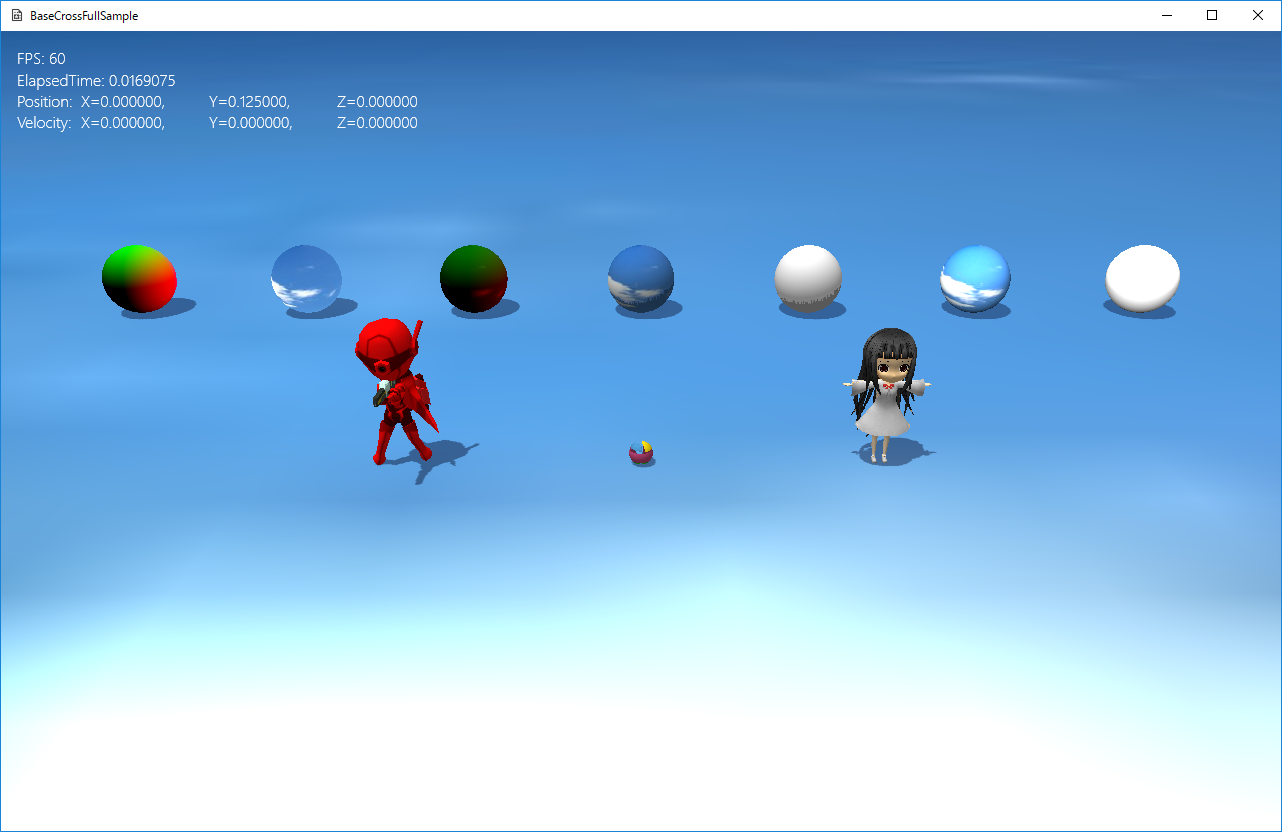
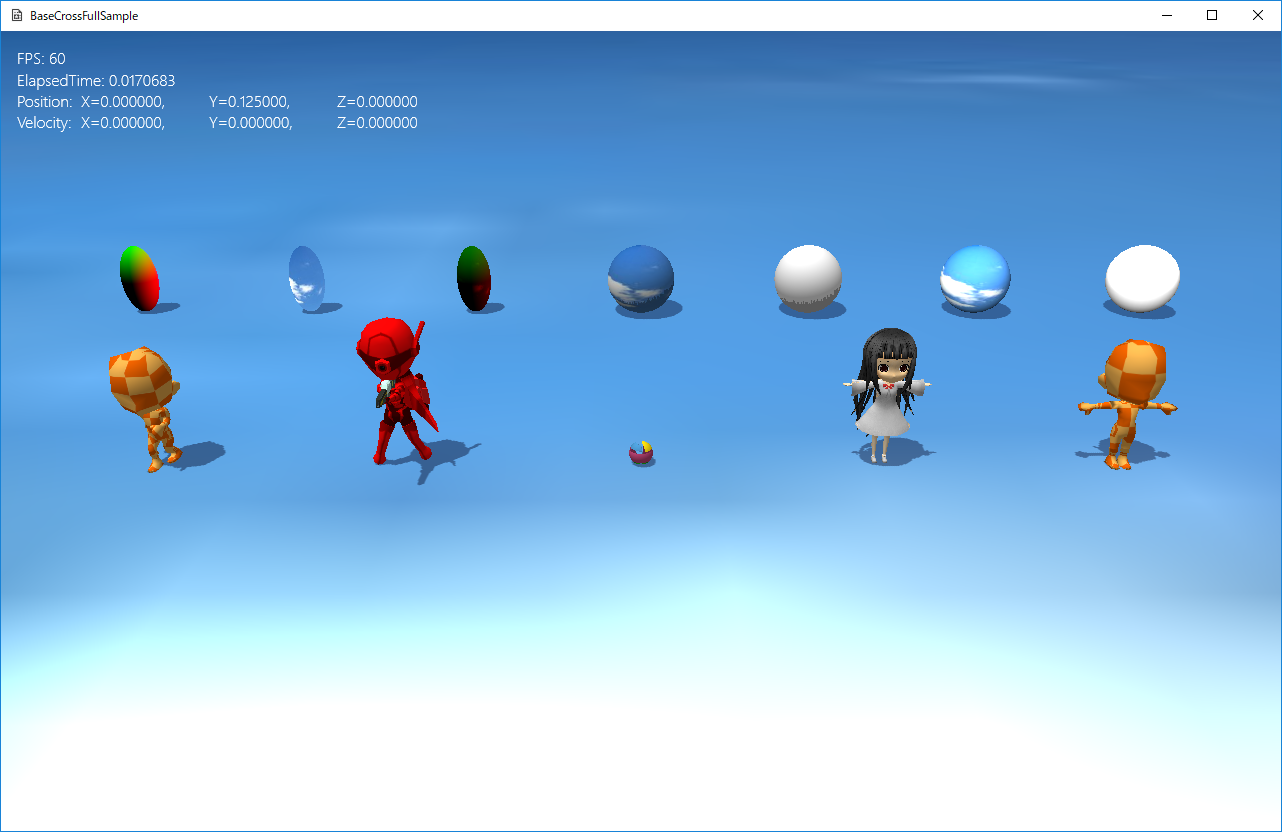
マルチメッシュのモデル対応に伴うドキュメント修正。

diff --git a/BaseCrossDoc/04_03.html b/BaseCrossDoc/04_03.html
@@ -267,10 +267,18 @@ void Scene::CreateResourses() {
     auto StaticModelMesh = MeshResource::CreateStaticModelMesh(DataDir, L"Character_01.bmf");
     App::GetApp()->RegisterResource(L"MODEL_MESH", StaticModelMesh);
 
+    //スタティックモデル(マルチメッシュ)の通常リソース
+    auto StaticMultiModelMesh = MultiMeshResource::CreateStaticModelMultiMesh(DataDir, L"ObjectOnly.bmf");
+    App::GetApp()->RegisterResource(L"ObjectOnly_MESH", StaticMultiModelMesh);
+    //ボーンモデル(マルチメッシュ)の通常リソース
+    auto MultiModelMesh = MultiMeshResource::CreateBoneModelMultiMesh(DataDir, L"Object_WalkAnimation.bmf");
+    App::GetApp()->RegisterResource(L"Object_WalkAnimation_MESH", MultiModelMesh);
 }
 </pre>
 </div>
-　このようにして<b>リソース登録</b>した<b>L"Chara_R_MESH"</b>を使用します。以下は<b>BoneChara::OnCreate()関数</b>です。
+　このようにして<b>リソース登録</b>した<b>L"Chara_R_MESH"</b>を使用します。<br />
+　また、ここで<b>マルチメッシュ</b>として作成されるモデルの実装も行ってます。<b>L"ObjectOnly_MESH"</b>と<b>L"Object_WalkAnimation_MESH"</b>です。この二つのモデルは<b>1つのFBXファイルに複数のメッシュがある場合</b>のモデルをデータ変換したものです。BaseCrossでは<b>マルチメッシュ</b>と称しています。<br />
+　以下は<b>BoneChara::OnCreate()関数</b>です。<br/>
 <div class="box1">
 <pre>
 //初期化
@@ -324,6 +332,59 @@ void BoneChara::OnUpdate() {
 }
 </pre>
 </div>
+　以下は<b>マルチメッシュ</b>である<b>BoneMultiMeshChara</b>の<b>BoneMultiMeshChara::OnCreate()</b>です。
+<div class="box1">
+<pre>
+//初期化
+void BoneMultiMeshChara::OnCreate() {
+    //初期位置などの設定
+    auto Ptr = AddComponent&lt;Transform>();
+    Ptr->SetScale(0.5f, 0.5f, 0.5f);
+    Ptr->SetRotation(0.0f, 0.0f, 0.0f);
+    Ptr->SetPosition(m_StartPos);
+
+    Mat4x4 SpanMat; // モデルとトランスフォームの間の差分行列
+    SpanMat.affineTransformation(
+        Vec3(1.0f, 1.0f, 1.0f),
+        Vec3(0.0f, 0.0f, 0.0f),
+        Vec3(0.0f, 0.0f, 0.0f),
+        Vec3(0.0f, 0.0f, 0.0f)
+    );
+
+    //影をつける（シャドウマップを描画する）
+    auto ShadowPtr = AddComponent&lt;Shadowmap>();
+
+    //影の形（メッシュ）を設定
+    <span class="red">ShadowPtr->SetMultiMeshResource(L"Object_WalkAnimation_MESH");</span>
+    ShadowPtr->SetMeshToTransformMatrix(SpanMat);
+
+    //描画コンポーネントの設定
+    auto PtrDraw = AddComponent&lt;PNTBoneModelDraw>();
+    //描画するメッシュを設定
+    <span class="red">PtrDraw->SetMultiMeshResource(L"Object_WalkAnimation_MESH");</span>
+    PtrDraw->SetSamplerState(SamplerState::LinearWrap);
+    PtrDraw->SetMeshToTransformMatrix(SpanMat);
+
+    PtrDraw->AddAnimation(L"Default", 0, 30, true, 10.0f);
+    PtrDraw->ChangeCurrentAnimation(L"Default");
+
+}
+</pre>
+</div>
+　赤くなっているところに注意してください。<b>SetMultiMeshResource()関数</b>で、<b>マルチメッシュ</b>を各コンポーネントに設定しています。<br />
+　もう一つ注意してほしいのは、<b>単体のメッシュ</b>と<b>マルチメッシュ</b>は一つのコンポーネントに同居できないということです。<br />
+　以下は、<b>OnUpdate()</b>です。
+<div class="box1">
+<pre>
+//更新
+void BoneMultiMeshChara::OnUpdate() {
+    auto PtrDraw = GetComponent&lt;PNTBoneModelDraw>();
+    float ElapsedTime = App::GetApp()->GetElapsedTime();
+    PtrDraw->UpdateAnimation(ElapsedTime);
+}
+</pre>
+</div>
+　こちらは単体のメッシュと変わりありません。<br />
 <br />
 <h4>スタティックモデル</h4>
 　以下は<b>スタティックモデル</b>の作成です。<b>StaticChara::OnCreate()関数</b>に記述します。
@@ -359,6 +420,38 @@ void StaticChara::OnCreate() {
 }
 </pre>
 </div>
+　こちらも<b>ボーンモデル</b>同様<b>マルチメッシュ</b>のオブジェクトがあります。<b>StaticMultiMeshChara</b>です。以下が<b>StaticMultiMeshChara::OnCreate()</b>です。
+<div class="box1">
+<pre>
+//初期化
+void StaticMultiMeshChara::OnCreate() {
+    //初期位置などの設定
+    auto Ptr = AddComponent&lt;Transform>();
+    Ptr->SetScale(0.5f, 0.5f, 0.5f);
+    Ptr->SetRotation(0.0f, 0.0f, 0.0f);
+    Ptr->SetPosition(m_StartPos);
+
+    Mat4x4 SpanMat; // モデルとトランスフォームの間の差分行列
+    SpanMat.affineTransformation(
+        Vec3(1.0f, 1.0f, 1.0f),
+        Vec3(0.0f, 0.0f, 0.0f),
+        Vec3(0.0f, 0.0f, 0.0f),
+        Vec3(0.0f, 0.0f, 0.0f)
+    );
+
+    //影をつける（シャドウマップを描画する）
+    auto ShadowPtr = AddComponent&lt;Shadowmap>();
+    //影の形（メッシュ）を設定
+    <span class="red">ShadowPtr->SetMultiMeshResource(L"ObjectOnly_MESH");</span>
+    ShadowPtr->SetMeshToTransformMatrix(SpanMat);
+
+    auto PtrDraw = AddComponent&lt;PNTStaticModelDraw>();
+    <span class="red">PtrDraw->SetMultiMeshResource(L"ObjectOnly_MESH");</span>
+    PtrDraw->SetMeshToTransformMatrix(SpanMat);
+}
+</pre>
+</div>
+　こちらも、赤くなっているところは<b>マルチメッシュ</b>を登録しているところです。<br/>
 <br />
 <h4>GameStageへの配置</h4>
 　以上が各オブジェクトの初期化や更新です。最後に<b>GameStage::OnCreate()</b>で各オブジェクトを<b>AddGameObject</b>します。

diff --git a/BaseCrossDoc/04_04.html b/BaseCrossDoc/04_04.html
@@ -46,7 +46,7 @@ void PtSphere::OnCreate() {
 <p>図0404b</p>
 <br/>
 <h4>モデルの描画</h4>
-　モデルをリアルな描画にしたのが手前の4体です。左２つはアニメーションが入ってます。<br />
+　モデルをリアルな描画にしたのが手前の8体です。左４つはアニメーションが入ってます。<br />
 　以下はボーンモデルの描画ですが<b>タンジェントがついているものとついてないもの</b>の違いを確認してください。
 <p>&nbsp;</p>
 <img src="img/0404c.png" width="80%"/>
@@ -116,34 +116,58 @@ void BoneChara::OnCreate() {
 <div class="box1">
 <pre>
 void Scene::CreateResourses() {
-    //中略
+//中略
 
     //ボーンモデルの通常リソース
     auto ModelMesh = MeshResource::CreateBoneModelMesh(DataDir, L"Chara_R.bmf");
     App::GetApp()->RegisterResource(L"Chara_R_MESH", ModelMesh);
+
     //ボーンモデルのタンジェント付きリソース
-    <span class="red">ModelMesh = MeshResource::CreateBoneModelMeshWithTangent(DataDir, L"Chara_R.bmf");</span>
+    ModelMesh = MeshResource::CreateBoneModelMeshWithTangent(DataDir, L"Chara_R.bmf");
     App::GetApp()->RegisterResource(L"Chara_R_MESH_WITH_TAN", ModelMesh);
     //法線マップ
     strTexture = DataDir + L"Chara_R_narmal.png";
     App::GetApp()->RegisterTexture(L"Chara_R_NORMAL_TX", strTexture);
 
+    //ボーンモデル(マルチメッシュ)の通常リソース
+    auto MultiModelMesh 
+    = MultiMeshResource::CreateBoneModelMultiMesh(DataDir, L"Object_WalkAnimation.bmf");
+    App::GetApp()->RegisterResource(L"Object_WalkAnimation_MESH", MultiModelMesh);
+
+    //ボーンモデル(マルチメッシュ)のタンジェント付きリソース
+    MultiModelMesh 
+    = MultiMeshResource::CreateBoneModelMultiMeshWithTangent(DataDir, L"Object_WalkAnimation.bmf");
+    App::GetApp()->RegisterResource(L"Object_WalkAnimation_MESH_WITH_TAN", MultiModelMesh);
+
+    //法線マップ
+    strTexture = DataDir + L"Tx_Checker_Normal.png";
+    App::GetApp()->RegisterTexture(L"OBJECT_NORMAL_TX", strTexture);
+
     //スタティックモデルの通常リソース
     auto StaticModelMesh = MeshResource::CreateStaticModelMesh(DataDir, L"Character_01.bmf");
     App::GetApp()->RegisterResource(L"MODEL_MESH", StaticModelMesh);
     //スタティックモデルのタンジェント付きリソース
-    <span class="red">StaticModelMesh 
-        = MeshResource::CreateStaticModelMeshWithTangent(DataDir, L"Character_01.bmf");</span>
+    StaticModelMesh = MeshResource::CreateStaticModelMeshWithTangent(DataDir, L"Character_01.bmf");
     App::GetApp()->RegisterResource(L"MODEL_MESH_WITH_TAN", StaticModelMesh);
     //法線マップ
     strTexture = DataDir + L"Character_2_normal.png";
     App::GetApp()->RegisterTexture(L"MODEL_NORMAL_TX", strTexture);
 
+    //スタティックモデル(マルチメッシュ)の通常リソース
+    auto StaticMultiModelMesh 
+    = MultiMeshResource::CreateStaticModelMultiMesh(DataDir, L"ObjectOnly.bmf");
+    App::GetApp()->RegisterResource(L"ObjectOnly_MESH", StaticMultiModelMesh);
+
+    //スタティックモデル(マルチメッシュ)のタンジェント付きリソース
+    StaticMultiModelMesh 
+    = MultiMeshResource::CreateStaticModelMultiMeshWithTangent(DataDir, L"ObjectOnly.bmf");
+    App::GetApp()->RegisterResource(L"ObjectOnly_MESH_WITH_TAN", StaticMultiModelMesh);
 
 }
 </pre>
 </div>
-　このように<b>リアルな描画</b>を実装するためには、基本的に<b>描画コンポーネント</b>の変更や、<b>タンジェント付きのリソースを作成</b>すればいいわけですが、ゲームによって<b>どこまでリアルな描画が必要かどうか</b>が違うと思いますので、前項のような描画が良いかどうかはしっかり検討して実装するといいと思います。
+　このように<b>リアルな描画</b>を実装するためには、基本的に<b>描画コンポーネント</b>の変更や、<b>タンジェント付きのリソースを作成</b>すればいいわけですが、ゲームによって<b>どこまでリアルな描画が必要かどうか</b>が違うと思いますので、前項のような描画が良いかどうかはしっかり検討して実装するといいと思います。<br/>
+　また、このサンプルにも前項に使用した<b>マルチメッシュ</b>のモデルも<b>タンジェント付き</b>と<b>タンジェント無し</b>で実装されています。設置方法は前項と大きく変わりませんので、確認してみましょう。
 </div>
 <!-- /コンテンツ　-->
 <hr>

diff --git a/BaseCrossDoc/index.html b/BaseCrossDoc/index.html
@@ -88,14 +88,16 @@
 <li><a href="00_13.html">０１３．コントローラとキーボード入力(Dx11版)</a></li>
 <li><a href="00_14.html">０１４．インスタンス描画(Dx11版)</a></li>
 <li><a href="00_15.html">０１５．衝突判定の実装と簡単なAI(Dx11版)</a></li>
-</ul>
-<h4><a href="00_21.html">０２．シンプルバージョンでゲームの実装(Dx11版)</h4>
-<ul class="mokuj">
 <li><a href="00_21.html">０２１．ゲーム実装の雛形(Dx11版)</a></li>
 <li><a href="00_22.html">０２２．Rigidbody（剛体）(Dx11版)</a></li>
 <li><a href="00_23.html">０２３．影（シャドウマップ）の実装(Dx11版)</a></li>
 <li><a href="00_24.html">０２４．３Ｄ描画に必要な機能とは(Dx11版)</a></li>
 <li><a href="00_25.html">０２５．行列操作とステートマシン(Dx11版)</a></li>
+</ul>
+<h4><a href="00_21.html">０２．シンプルバージョンでゲームの実装(Dx11版)</h4>
+<ul class="mokuj">
+<li><a href="00_21.html">０２１．ゲーム実装の雛形(Dx11版)</a></li>
+<li><a href="00_22.html">０２２．Rigidbody（剛体）(Dx11版)</a></li>
 </ul>
 <h4><a href="10_01.html">０．シンプルバージョンサンプル(Dx12版)</h4>
 <ul class="mokuji">
